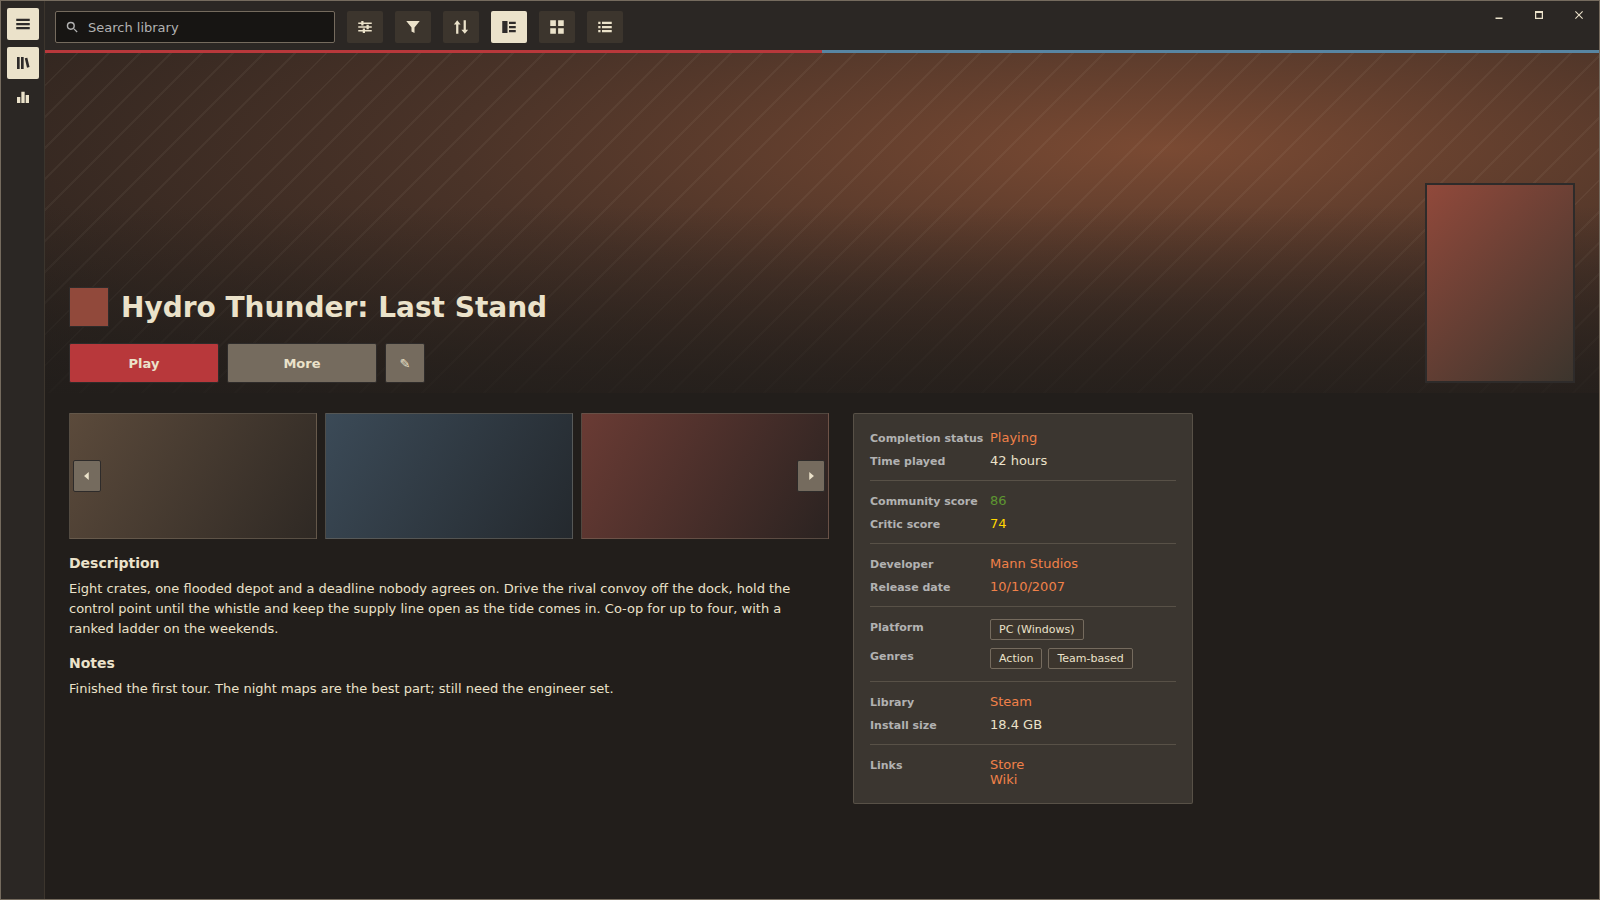
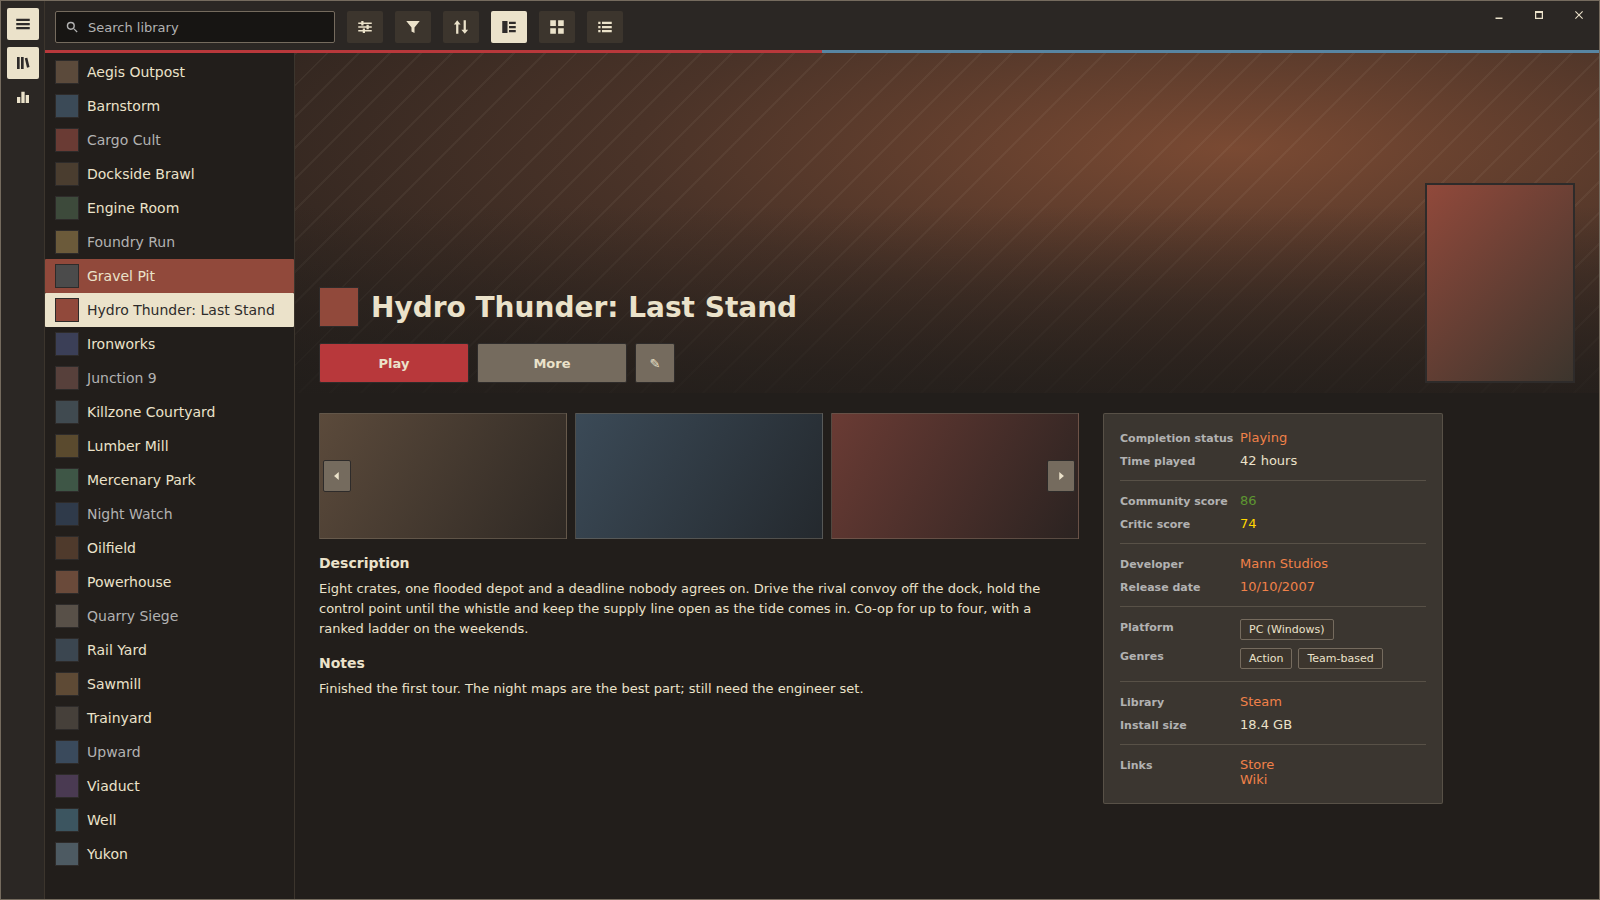
fix(themes): add the game list panel to the Mann Co details preview
The details view is the game list beside the game page; the preview showed
only the page. The list sits between the rail and the page, with the current
game as a tan paper row, a rust hovered row and muted uninstalled games.
The shared preview rule in src/themes/AGENTS.md now names the list panel.

Claude-Session: https://claude.ai/code/session_01WQY3WbVuDDmsnsmaii7FUv

Changed region(s): [[0.0312, 0.0622, 0.9062, 0.9644]]

diff --git a/src/themes/MannCo/art/preview-details.html b/src/themes/MannCo/art/preview-details.html
@@ -34,6 +34,14 @@
   .win { position: absolute; right: 0; top: 0; display: flex; }
   .win div { width: 40px; height: 28px; display: flex; align-items: center; justify-content: center; }
   .win svg { width: 12px; height: 12px; fill: var(--tan-light); }
+  .page { flex: 1; display: flex; overflow: hidden; }
+  .game-list { width: 250px; flex: none; border-right: 1px solid var(--brown-mid); padding: 2px 0; overflow: hidden; background: var(--brown-darkest); }
+  .game-row { display: flex; align-items: center; gap: 8px; padding: 5px 10px; font-size: 14px; color: var(--tan-light); border-radius: 1px; white-space: nowrap; }
+  .game-row i { width: 24px; height: 24px; flex: none; border: 1px solid var(--tan-darker); }
+  .game-row.off { color: var(--gray); }
+  .game-row.hot { background: var(--rust); }
+  .game-row.sel { background: var(--tan-light); color: var(--tan-darker); }
+  .game-view { flex: 1; display: flex; flex-direction: column; overflow: hidden; min-width: 0; }
   .hero-banner { height: 340px; position: relative; background: radial-gradient(ellipse at 72% 28%, #7a4a33 0%, #4a3328 45%, var(--brown-darkest) 100%); overflow: hidden; flex: none; }
   .hero-banner:before { content: ""; position: absolute; inset: 0; background: repeating-linear-gradient(135deg, rgba(235,226,202,.05) 0 2px, transparent 2px 22px); }
   .hero-wash { position: absolute; inset: 0; background: linear-gradient(to bottom, transparent 45%, rgba(34,30,27,.8) 100%); }
@@ -85,6 +93,34 @@
     <div class="tp-btn"><svg viewBox="0 0 24 24"><path d="M3,5 H6 V8 H3 Z M8,5 H21 V8 H8 Z M3,10.5 H6 V13.5 H3 Z M8,10.5 H21 V13.5 H8 Z M3,16 H6 V19 H3 Z M8,16 H21 V19 H8 Z"/></svg></div>
     <div class="win"><div><svg viewBox="0 0 24 24"><path d="M5,17 H19 V20 H5 Z"/></svg></div><div><svg viewBox="0 0 24 24"><path fill-rule="evenodd" d="M4,4 H20 V20 H4 Z M6.5,8 V17.5 H17.5 V8 Z"/></svg></div><div><svg viewBox="0 0 24 24"><path d="M5.5,4 L12,10.5 L18.5,4 L20,5.5 L13.5,12 L20,18.5 L18.5,20 L12,13.5 L5.5,20 L4,18.5 L10.5,12 L4,5.5 Z"/></svg></div></div>
   </div>
+  <div class="page">
+  <div class="game-list">
+    <div class="game-row"><i style="background:#5b4a3b"></i>Aegis Outpost</div>
+    <div class="game-row"><i style="background:#3b4a57"></i>Barnstorm</div>
+    <div class="game-row off"><i style="background:#6a3b34"></i>Cargo Cult</div>
+    <div class="game-row"><i style="background:#4a3d2f"></i>Dockside Brawl</div>
+    <div class="game-row"><i style="background:#3d4a3b"></i>Engine Room</div>
+    <div class="game-row off"><i style="background:#6b5a3a"></i>Foundry Run</div>
+    <div class="game-row hot"><i style="background:#4b4b4b"></i>Gravel Pit</div>
+    <div class="game-row sel"><i style="background:#91493B"></i>Hydro Thunder: Last Stand</div>
+    <div class="game-row"><i style="background:#3b3f57"></i>Ironworks</div>
+    <div class="game-row off"><i style="background:#57403b"></i>Junction 9</div>
+    <div class="game-row"><i style="background:#404a50"></i>Killzone Courtyard</div>
+    <div class="game-row"><i style="background:#5a4a2e"></i>Lumber Mill</div>
+    <div class="game-row"><i style="background:#3e5646"></i>Mercenary Park</div>
+    <div class="game-row off"><i style="background:#2f3a4a"></i>Night Watch</div>
+    <div class="game-row"><i style="background:#4f3a2c"></i>Oilfield</div>
+    <div class="game-row"><i style="background:#6a4a3a"></i>Powerhouse</div>
+    <div class="game-row off"><i style="background:#585048"></i>Quarry Siege</div>
+    <div class="game-row"><i style="background:#3b4650"></i>Rail Yard</div>
+    <div class="game-row"><i style="background:#5e4a35"></i>Sawmill</div>
+    <div class="game-row"><i style="background:#46403a"></i>Trainyard</div>
+    <div class="game-row off"><i style="background:#3a4a5c"></i>Upward</div>
+    <div class="game-row"><i style="background:#4a3a52"></i>Viaduct</div>
+    <div class="game-row"><i style="background:#3c5560"></i>Well</div>
+    <div class="game-row"><i style="background:#4d5a62"></i>Yukon</div>
+  </div>
+  <div class="game-view">
   <div class="hero-banner">
     <div class="hero-wash"></div>
     <div class="hero-content">
@@ -140,6 +176,8 @@
         <div class="meta-row"><div class="meta-label">Links</div><div class="meta-value"><a>Store</a><br><a>Wiki</a></div></div>
       </div>
     </div>
+  </div>
+  </div>
   </div>
 </div>
 </body>

diff --git a/src/themes/AGENTS.md b/src/themes/AGENTS.md
@@ -118,7 +118,7 @@ Every field of Playnite's "Game fields to be displayed on details panel" list li
 ## Previews and screenshots
 
 All release screenshots and listing previews are generated from HTML replicas using Playwright / Chromium via `scripts/take-screenshots.ps1 -Extension <key>`:
-- **`art/preview-details.html` → `art/details.png`**: HTML replica of the Game Details view (hero banner, left screenshot carousel + description, right metadata pane, left compact navigation rail).
+- **`art/preview-details.html` → `art/details.png`**: HTML replica of the Game Details view (left compact navigation rail, the game list as a secondary panel beside the game page with the current game selected, hero banner, screenshot carousel + description on the left of the page, metadata pane on the right).
 ## Control corner radii and shapes
 
 - **Why `CornerRadiusFull` distorts in WPF**: Unlike CSS (which scales corner radii uniformly), WPF's `Border` clamps horizontal and vertical radii independently: `radiusX = min(radiusX, width/2)` and `radiusY = min(radiusY, height/2)`. When a single huge radius (e.g. 9999 or 10000) is set on an element where `width != height`, WPF draws an ellipse/oval across the entire element rather than flat edges with circular caps.
